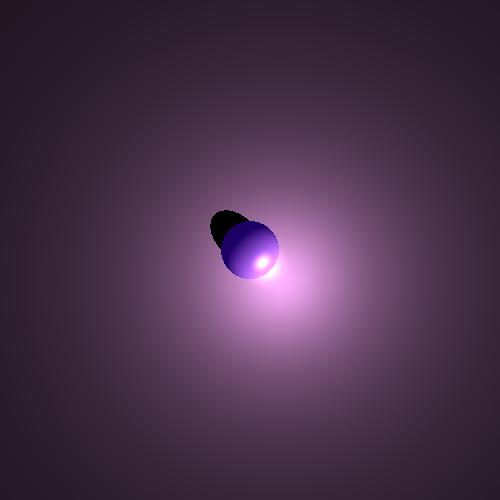
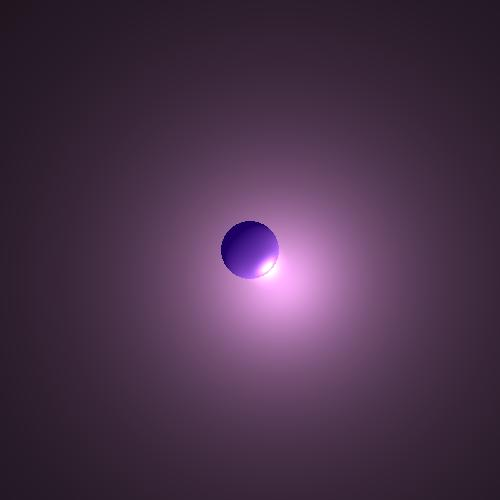
s

Changed region(s): [[0.48, 0.48, 0.57, 0.57], [0.42, 0.42, 0.51, 0.51]]

diff --git a/src/unittests/Project.java b/src/unittests/Project.java
@@ -27,17 +27,17 @@ public class Project {
 		Scene _scene = new Scene("Hills");
 		_scene.setScreenDistance(0.9);
 		_scene.setBackground(new Color(0, 0, 0));
-		_scene.setCamera(new Camera(new Point3D(7.48113, -6.50764, 0.991898), new Vector(0, 0, 1),
-				new Vector(-1, 1, 0).normalize()));
+		_scene.setCamera(new Camera(new Point3D(7.48113, 0.335088, 0.991898), new Vector(0, 0, 1),
+				new Vector(-1, 0, 0).normalize()));
 		_scene.setAmbientLight(new AmbientLight(new Color(0, 0, 0), 1));
 
 		_scene.addLightSource(
-				new PointLight(new Point3D(-4.76573, -8.00933, 7.36446), 1, 0.5, 0.4, new Color(255, 175, 255), 10));
+				new PointLight(new Point3D(-4.76573, -8.00933, 7.36446), 1, 0.5, 0.4, new Color(255, 255, 255), 10));
 		_scene.addGeometry(new Plane(new Point3D(0, 8.02304, 0), new Vector(0, -1, 0), new Color(255, 0, 0).scale(0.5),
 				new Material(1, 1, 10, 0.3, 0)));
-		_scene.addGeometry(new Plane(new Point3D(-10.2914, 0, 0), new Vector(1, 0, 0), new Color(255, 0, 0).scale(0.5),
+		_scene.addGeometry(new Plane(new Point3D(-10.2914, 0, 0), new Vector(1, 0, 0), new Color(255, 255, 0).scale(0.5),
 				new Material(1, 1, 10, 0.3, 0)));
-		_scene.addGeometry(new Plane(new Point3D(0, 0, -2.7243), new Vector(0, 0, 1), new Color(255, 0, 0).scale(0.5),
+		_scene.addGeometry(new Plane(new Point3D(0, 0, -2.7243), new Vector(0, 0, 1), new Color(255, 0, 255).scale(0.5),
 				new Material(1, 1, 10, 0.3, 0)));
 		_scene.addGeometry(new Sphere(new Point3D(-6.39727, 3.38068, -0.951183), 3.871,
 				new Color(0, 0, 255).scale(0.75), new Material(1, 1, 35, 0.3, 0)));
